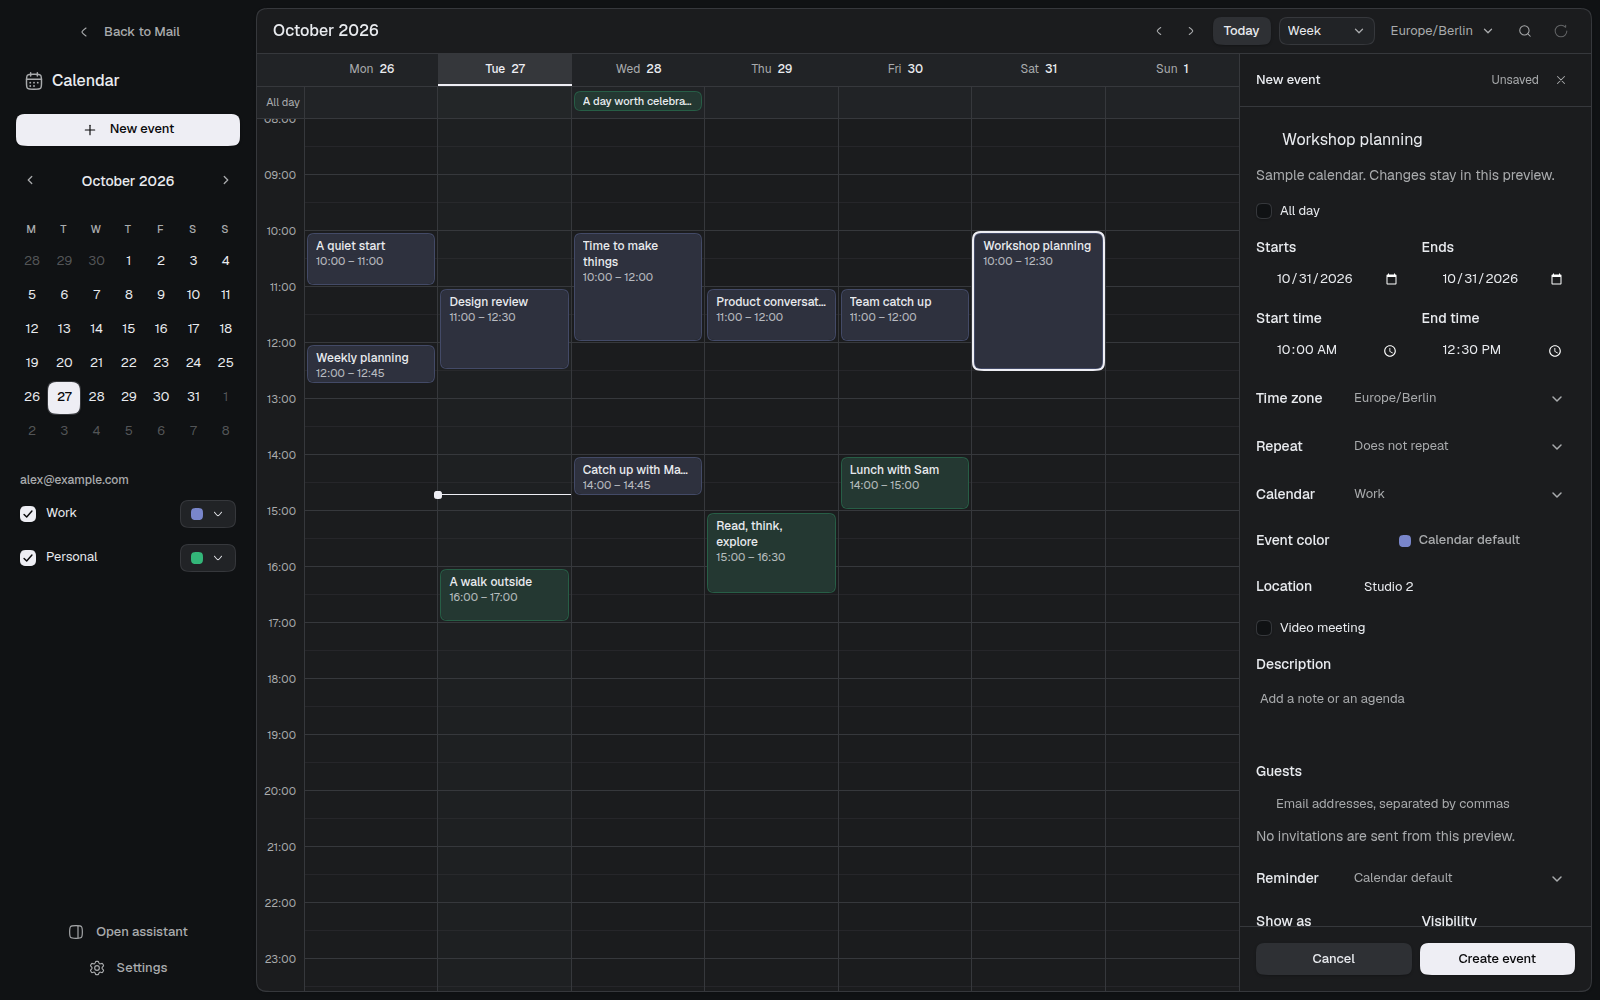
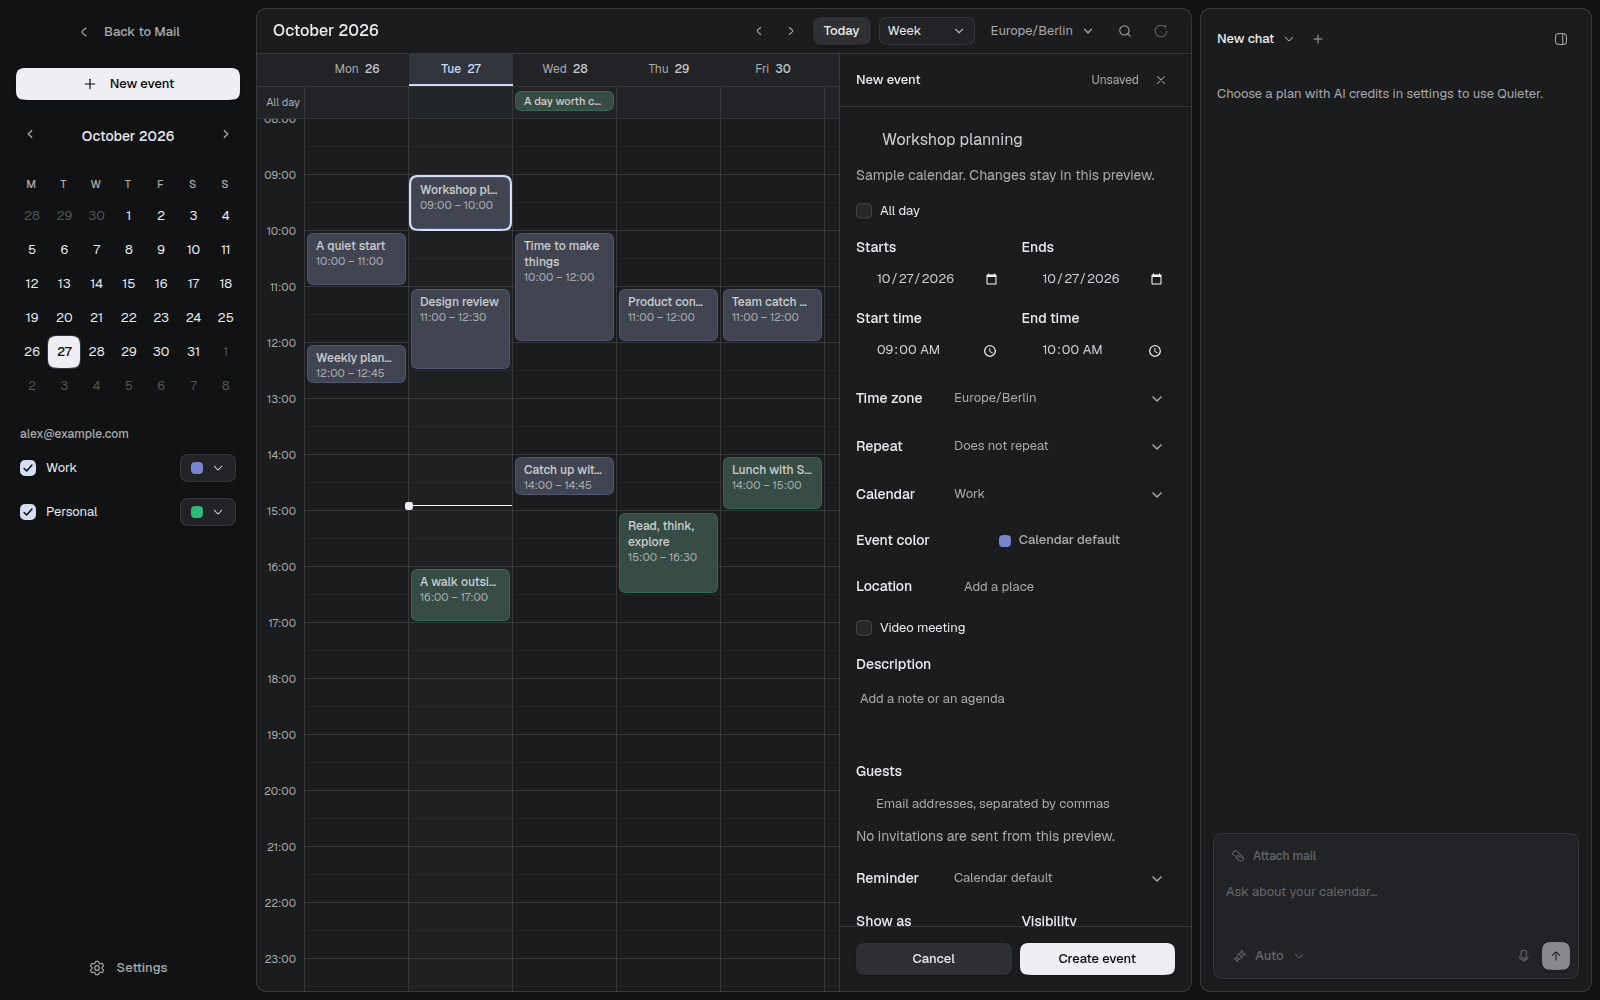
fix(calendar): tidy timezone search and sidebar

diff --git a/packages/ui/src/components/ui/searchable-select.tsx b/packages/ui/src/components/ui/searchable-select.tsx
@@ -7,7 +7,8 @@ import { useMemo } from "react";
 import { cn } from "../../lib/cn";
 import { Icon } from "./icon";
 import { CheckIcon, ChevronDownIcon } from "./icons";
-import { inputVariants } from "./input";
+import { Input } from "./input";
+import { InputAddon, InputGroup } from "./input-group";
 import { selectTriggerVariants } from "./select";
 import type { SelectTriggerProps } from "./select";
 
@@ -103,13 +104,20 @@ export const SearchableSelect = ({
             aria-label={ariaLabel}
             className="flex max-h-[min(16rem,var(--available-height))] w-80 max-w-(--available-width) min-w-(--anchor-width) origin-(--transform-origin) flex-col overflow-hidden rounded-lg border border-border bg-popover text-popover-fg shadow-md transition-[opacity,transform] duration-150 ease-out data-ending-style:scale-95 data-ending-style:opacity-0 data-starting-style:scale-95 data-starting-style:opacity-0 motion-reduce:transition-none"
           >
-            <div className="flex shrink-0 items-center gap-1 border-b border-border px-2 py-1">
-              <Icon aria-hidden icon={Search01Icon} size={16} tone="muted" />
-              <ComboboxPrimitive.Input
-                aria-label={searchPlaceholder}
-                className={inputVariants({ chrome: "ghost" })}
-                placeholder={searchPlaceholder}
-              />
+            <div className="shrink-0 border-b border-border p-2">
+              <InputGroup>
+                <InputAddon
+                  aria-hidden
+                  className="ml-3 flex shrink-0 items-center"
+                >
+                  <Icon icon={Search01Icon} size={14} tone="muted" />
+                </InputAddon>
+                <ComboboxPrimitive.Input
+                  aria-label={searchPlaceholder}
+                  placeholder={searchPlaceholder}
+                  render={<Input chrome="attached" />}
+                />
+              </InputGroup>
             </div>
             <ComboboxPrimitive.Empty className="text-center text-body-sm text-muted-fg">
               <p className="px-3 py-4">{emptyMessage}</p>

diff --git a/packages/app/src/features/calendar/components/calendar-sidebar.tsx b/packages/app/src/features/calendar/components/calendar-sidebar.tsx
@@ -3,7 +3,6 @@
 import {
   Add01Icon,
   ArrowLeft01Icon,
-  Calendar03Icon,
   Cancel01Icon,
   LayoutRightIcon,
   MoreHorizontalIcon,
@@ -25,7 +24,6 @@ import {
 import { Icon } from "@quieter/ui/icon";
 import { IconButtonTooltip } from "@quieter/ui/icon-button-tooltip";
 import { Pill } from "@quieter/ui/pill";
-import { Text } from "@quieter/ui/text";
 import { WorkspaceSidebar } from "@quieter/ui/workspace-sidebar";
 import { Link, useLocation } from "@tanstack/react-router";
 import { use, useState } from "react";
@@ -193,12 +191,6 @@ const CalendarSidebarContent = ({
             </Button>
           </IconButtonTooltip>
         ) : null}
-      </div>
-      <div className="flex items-center gap-2 px-2">
-        <Icon aria-hidden size={20} tone="muted" icon={Calendar03Icon} />
-        <Text as="h1" size="lg" truncate weight="medium">
-          Calendar
-        </Text>
       </div>
       <Button
         disabled={!canCreate}

diff --git a/packages/ui/src/components/ui/input.tsx b/packages/ui/src/components/ui/input.tsx
@@ -29,7 +29,8 @@ export const inputVariants = cva(inputControlClassName, {
   },
   variants: {
     chrome: {
-      attached: "border-0 bg-transparent shadow-none focus-visible:ring-0",
+      attached:
+        "border-0 bg-transparent shadow-none focus-visible:ring-0 focus-visible:ring-offset-0",
       default:
         "squircle rounded-md border border-border bg-input shadow-none read-only:cursor-default read-only:bg-input",
       ghost: "border-0 bg-transparent shadow-none read-only:bg-transparent",
